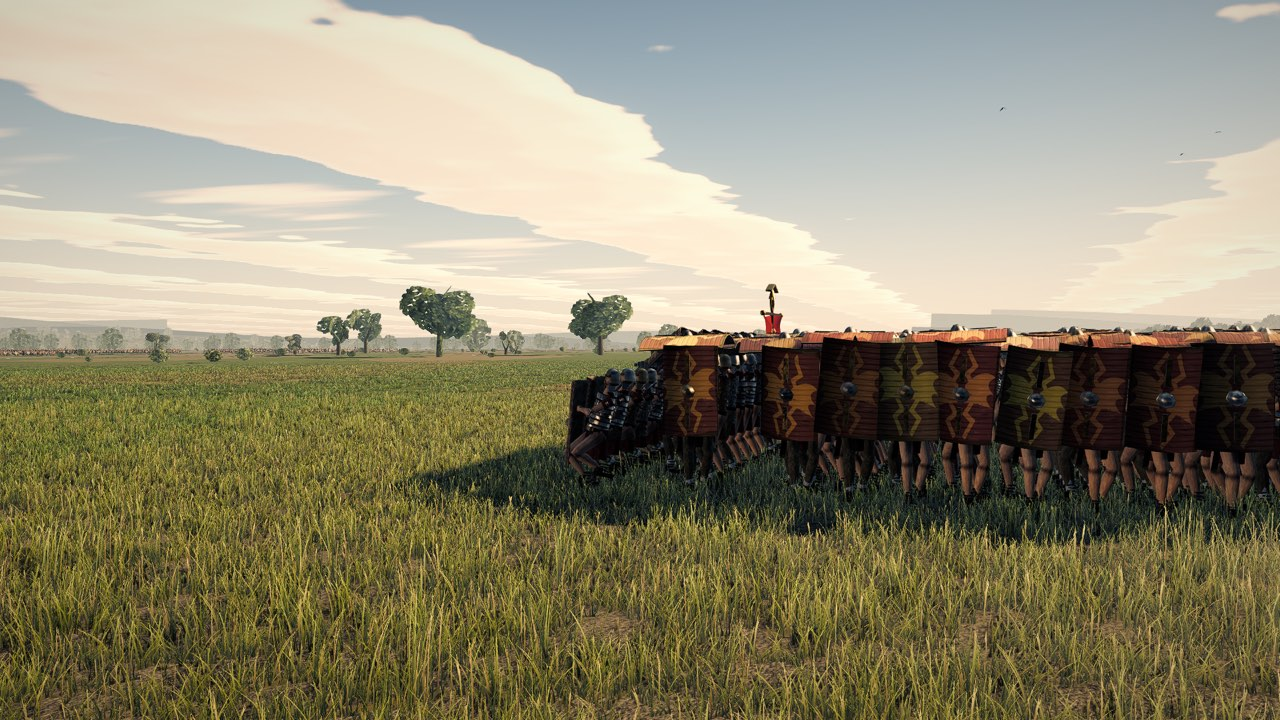
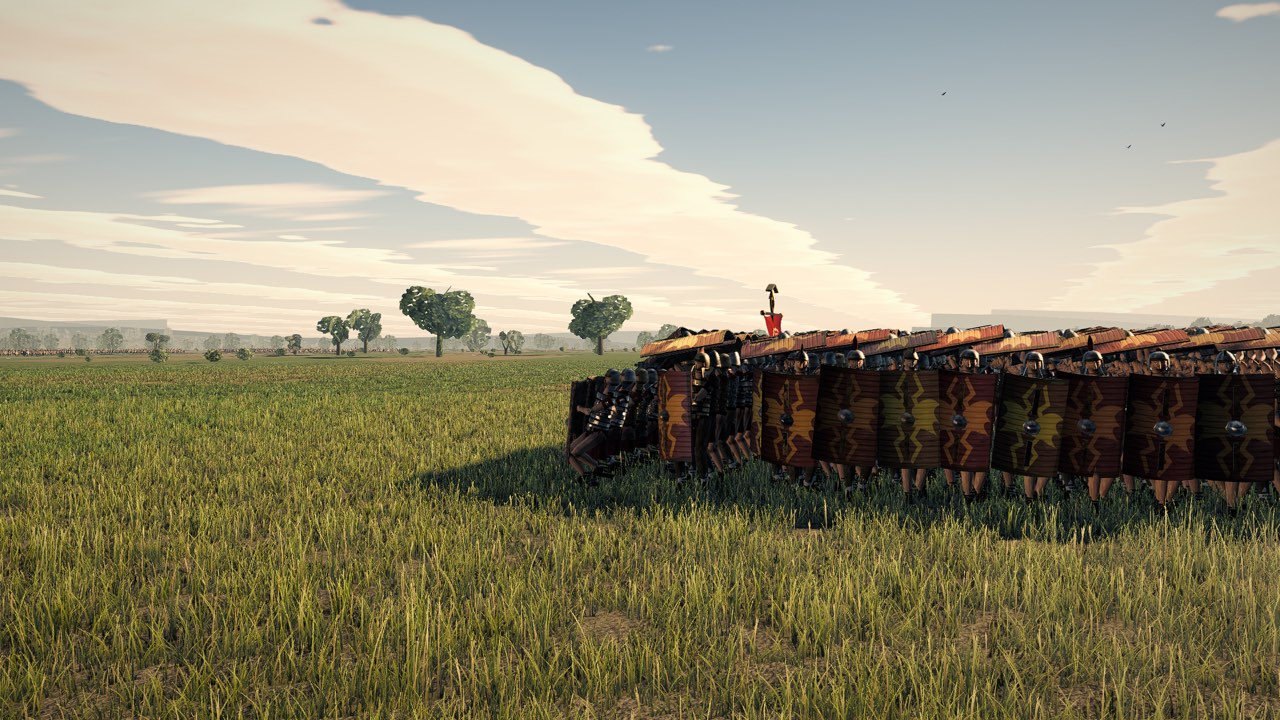
fix(testudo): the three things a critic found, and what each one cost
A blind pass over the nine before/after plates came back mean 2.00, FAIL, with three
named faults. All three are attempted here and the trade each one carries is written
down beside it.

**The legs.** *"A continuous band of naked, identically-coloured shins under a shield
line that stops at mid-thigh"* — named in five of nine frames and called the single
highest-leverage fix. The flank and rear board covered 0.72-1.77 m. The argument for
the height was that its top edge stood on the roof line and sealed every horizontal
sightline; what it produced was three quarters of a metre of bare leg along both
flanks and the whole of the back. Dropped 0.30 m to 0.42-1.47 m, which puts the rim
into the grass. What is given up is a 0.19 m band between the rim and the roof's edge,
seen from outside at about eye height, showing the men's own helmets and the underside
of the roof rather than sky.

**The roof.** *"Two to three stops brighter and desaturated to salmon against
dark-plum walls, with no occlusion at any overlap."* Both true and both the same
cause: a level board sees the whole sky hemisphere, so it takes about twice the
ambient a vertical one does, and coplanar boards cannot shade each other however good
the AO. The two courses are now 8 and 12 degrees nose-down. That costs 2% of the
fore-and-aft coverage, tips the normal off the zenith, and puts a real 0.15 m step at
every lap — so the roof shades itself with shadow instead of needing a term it cannot
[…]

Changed region(s): [[0.0, 0.4278, 1.0, 1.0], [0.4375, 0.5194, 0.4688, 0.55]]

diff --git a/src/anim/authored.ts b/src/anim/authored.ts
@@ -453,9 +453,9 @@ const idleBraceLow: OverlayDef = {
  * |---|---|---|
  * | `testudoFace` | 0.30–1.35 m, upright | the front rank's own frontage, down to the ankles |
  * | `testudoNose` | 1.19–1.92 m, 46° back-slope reaching 0.75 m forward | the band across the front at head height — the gap that makes a testudo look like a crowd wearing hats |
- * | `testudoRoofA` | level at 1.74 m, 1.06 m of board over a 0.63 m interval | the roof, course one |
- * | `testudoRoofB` | 1.73–1.81 m, 4° off level | the roof, course two: alternate ranks take it, so the boards lap rather than butt and the surface has a grain |
- * | `testudoFlank` | 0.72–1.77 m, upright, its top edge on the roof line | the flanks and the rear, with the man turned outward by the renderer |
+ * | `testudoRoofA` | 1.66–1.81 m, 8° nose-down, 1.06 m of board over a 0.63 m interval | the roof, course one |
+ * | `testudoRoofB` | 1.63–1.85 m, 12° nose-down | the roof, course two: alternate ranks take it, so the boards lap rather than butt and the surface has a grain |
+ * | `testudoFlank` | 0.42–1.47 m, upright | the flanks and the rear, with the man turned outward by the renderer |
  *
  * Each roof board laps the one in front by 0.43 m, which is what leaves no hole when a man
  * is 0.1 m out of his place. The face's top at 1.35 m sits above the nose's bottom at
@@ -543,12 +543,19 @@ const TESTUDO_DEEP_MARCH: BoneTrack[] = [
 const TESTUDO_DEEP_MARCH_ROOT: readonly (readonly [number, number, number, number])[] =
   [[0, 0, -0.21, 0.05]];
 
-/** Front rank: the board upright and planted, covering 0.30–1.35 m. Both hands behind it. */
+/**
+ * Front rank: the board upright and planted, covering 0.30-1.35 m. Both hands behind it.
+ *
+ * The right hand's target was pulled 0.14 m back after a critic found knuckles coming
+ * through the painted face of the board in four places in one eye-level crop. A hand
+ * "on the back of the shield" has to be behind the *back* of the shield, and the scutum
+ * is 0.135 m of curve plus 0.022 m of plywood in front of where the arm is.
+ */
 const ARMS_FACE: BoneTrack[] = [
   absTr(MB.upperArmL, [[0, 150.4, 67.3, 55.3]]),
   absTr(MB.lowerArmL, [[0, 173, -51, -177]]),
-  absTr(MB.upperArmR, [[0, 21.7, 29.1, 67.6]]),
-  absTr(MB.lowerArmR, [[0, -48.3, -55.8, 150.5]]),
+  absTr(MB.upperArmR, [[0, 18.1, -11.1, 70.5]]),
+  absTr(MB.lowerArmR, [[0, -51.9, -49.8, 151.4]]),
 ];
 
 /** Second rank: the glacis, 46° back from vertical, covering 1.19–1.92 m. */
@@ -559,28 +566,56 @@ const ARMS_NOSE: BoneTrack[] = [
   absTr(MB.lowerArmR, [[0, -73.8, -40.1, 166.6]]),
 ];
 
-/** Roof, course one: dead level at 1.74 m. */
+/**
+ * Roof, course one: 8 degrees nose-down, 1.66 m at the leading edge and 1.81 m at the
+ * trailing one.
+ *
+ * **It was dead level and that was worse.** A horizontal board sees the whole sky
+ * hemisphere, so it takes about twice the ambient a vertical one does, and a critic scored
+ * the roof two to three stops brighter than the *same asset* on the wall — "a flat pink
+ * quilt", with no occlusion anywhere the boards lap because coplanar boards cannot shade
+ * each other. Eight degrees costs 2% of the fore-and-aft coverage, tips the normal off the
+ * zenith, and puts a real 0.15 m step at every lap, so the roof shades itself with shadow
+ * rather than needing an AO term it cannot have. It is also the correct way round: the
+ * leading edge is the low one, so the front board sheds over the one behind it.
+ */
 const ARMS_ROOF_A: BoneTrack[] = [
-  absTr(MB.upperArmL, [[0, 110, 84.4, 13.1]]),
-  absTr(MB.lowerArmL, [[0, 90, -51, -177]]),
-  absTr(MB.upperArmR, [[0, 108, -11.5, -17.5]]),
-  absTr(MB.lowerArmR, [[0, -81.7, -29.6, 172.4]]),
+  absTr(MB.upperArmL, [[0, 106.3, 84.6, 10.5]]),
+  absTr(MB.lowerArmL, [[0, 98, -51, -177]]),
+  absTr(MB.upperArmR, [[0, 90.8, 5, -0.8]]),
+  absTr(MB.lowerArmR, [[0, -74.2, -27.7, 166.3]]),
 ];
 
-/** Roof, course two: 4° off level and 30 mm higher, so the courses lap. */
+/** Roof, course two: 12 degrees and 10 mm higher, so the two courses lap and disagree. */
 const ARMS_ROOF_B: BoneTrack[] = [
-  absTr(MB.upperArmL, [[0, 98, 85, 5]]),
-  absTr(MB.lowerArmL, [[0, 94, -51, -177]]),
-  absTr(MB.upperArmR, [[0, 108, -11.5, -17.5]]),
-  absTr(MB.lowerArmR, [[0, -86.6, -31.3, 176.3]]),
+  absTr(MB.upperArmL, [[0, 99, 85, 5.5]]),
+  absTr(MB.lowerArmL, [[0, 102, -51, -177]]),
+  absTr(MB.upperArmR, [[0, 90.8, 5, -0.8]]),
+  absTr(MB.lowerArmR, [[0, -78.2, -28.7, 169.5]]),
 ];
 
-/** Flank and rear: the board upright, covering 0.72–1.77 m, its top edge on the roof line. */
+/**
+ * Flank and rear: the board upright and low, covering 0.42-1.47 m.
+ *
+ * **It used to cover 0.72-1.77 m and that was the loudest fault in the whole feature.** The
+ * argument for the high board was that its top edge stood on the roof line and sealed every
+ * horizontal sightline; what it actually produced was 0.72 m of bare leg under the shield
+ * along both flanks and the whole of the back, which a critic named as the single
+ * highest-leverage fix and called out in five of nine frames. Dropping it 0.30 m puts the
+ * rim into the grass, and it takes the *second* fault with it: at 1.47 m the far wall no
+ * longer stands proud of the roof, so the dozen unlit hide backs that a tactical camera
+ * used to see over the top of the shell — "black fins", and they shredded the silhouette at
+ * every range — are hidden behind the roof they used to stick through.
+ *
+ * What is given up is a 0.19 m band between the rim and the roof's edge, seen only from
+ * outside at about eye height. It shows the men's own helmets and the underside of the
+ * roof, not sky.
+ */
 const ARMS_FLANK: BoneTrack[] = [
-  absTr(MB.upperArmL, [[0, 157.7, 88.7, 3.4]]),
+  absTr(MB.upperArmL, [[0, -146.8, 88.7, 8.4]]),
   absTr(MB.lowerArmL, [[0, -174, -51, -177]]),
-  absTr(MB.upperArmR, [[0, 136.7, 39.1, -46.3]]),
-  absTr(MB.lowerArmR, [[0, -64.1, -47.3, 160]]),
+  absTr(MB.upperArmR, [[0, 17.8, 35.7, 71.7]]),
+  absTr(MB.lowerArmR, [[0, -28.5, -40.9, 130.8]]),
 ];
 
 /**

diff --git a/src/units/UnitRenderSystem.ts b/src/units/UnitRenderSystem.ts
@@ -240,6 +240,8 @@ const TESTUDO_EVEN = 0.78;
 const TESTUDO_FORM = 0.55;
 /** Ranks a block needs before its rearmost turns about to close the back. */
 const TESTUDO_MIN_DEPTH = 4;
+/** How far the two flank men nearest the face turn, instead of a right angle. */
+const TESTUDO_CHAMFER = (50 * Math.PI) / 180;
 
 /**
  * Ceiling on machines drawn at once. Four batteries of four is sixteen; sixty-four leaves
@@ -1670,15 +1672,32 @@ export class UnitRenderSystem implements Subsystem {
            * `floor((last - file) / w)` is the highest rank that file actually reaches.
            */
           r = TestudoRole.Flank;
-          turn = Math.PI;
-        } else if (file === 0) {
-          // File 0 is the most negative local x, which is the unit's *left*: see
-          // `centredX` in `sim/formations.ts`.
+          // Chamfered at the two back corners for the same reason as the front two: a man
+          // who is both the end of the rear rank and the end of a flank has to face the
+          // diagonal, or the join between the two walls is a hole with a man in it.
+          // `turn` is added to the unit's heading, and the unit's left is negative: a man on
+          // the left flank looking back over his left shoulder is `-(PI - k)`, not `PI - k`,
+          // which would face him back over the *other* one and put his board inside the
+          // block.
+          const k = TESTUDO_CHAMFER * 0.72;
+          turn = file === 0 ? k - Math.PI : file === w - 1 ? Math.PI - k : Math.PI;
+        } else if (file === 0 || file === w - 1) {
+          /**
+           * The flanks, and the chamfer at the front of them.
+           *
+           * File 0 is the most negative local x, which is the unit's *left*: see `centredX`
+           * in `sim/formations.ts`. A flank man turns a right angle and stands his board up
+           * outward — except in the first two ranks behind the face, where a right angle
+           * leaves the board edge-on to anybody standing in front of the formation and a
+           * critic counted four or five men fully exposed at each front corner, helmets and
+           * bare arms, with no shield in front of them and none above. `TESTUDO_CHAMFER`
+           * turns those two men through fifty degrees instead, so the corner presents a
+           * bevel to the front rather than a notch. A shell is not a box with square
+           * corners; the corners are where two surfaces have to meet.
+           */
           r = TestudoRole.Flank;
-          turn = -Math.PI / 2;
-        } else if (file === w - 1) {
-          r = TestudoRole.Flank;
-          turn = Math.PI / 2;
+          const out = file === 0 ? -1 : 1;
+          turn = out * (rank <= 3 ? TESTUDO_CHAMFER : Math.PI / 2);
         } else if (rank === 1) {
           r = TestudoRole.Nose;
         } else {
